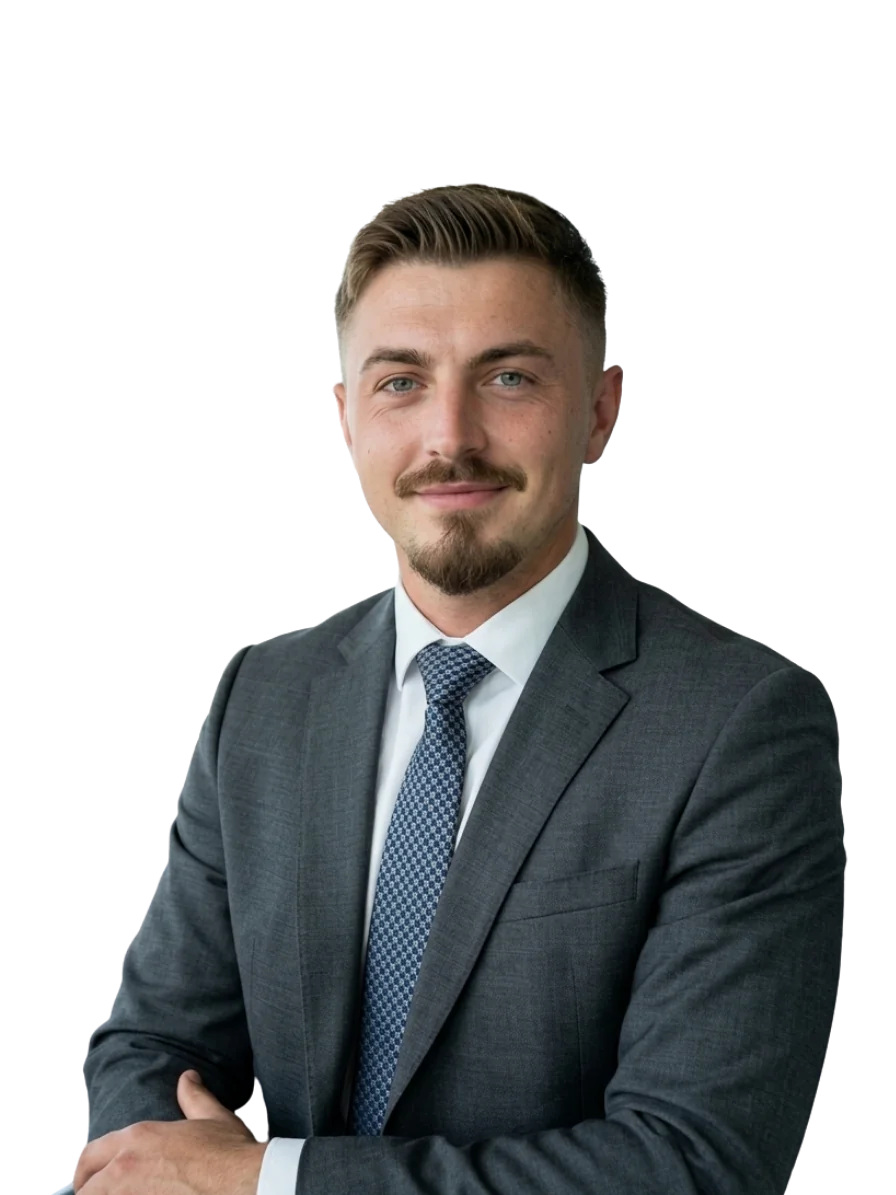
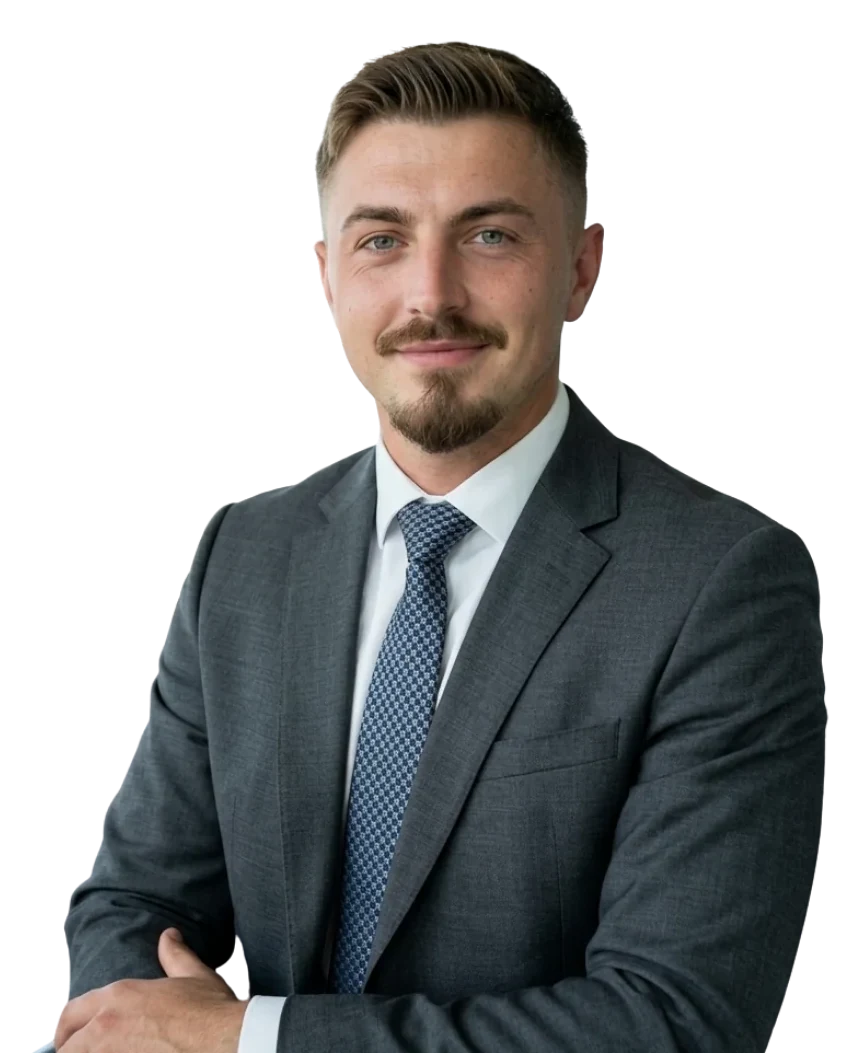
Baustellen-Seite: Fotos zugeschnitten (fuellen Rahmen), personenbezogener Kontakt
Portraits hatten viel transparenten Leerraum im Canvas (Ayham nur 52% Bildbreite
genutzt) - auf den tatsaechlichen Bildinhalt zugeschnitten, Fotos fuellen jetzt
den Rahmen sichtbar aus statt klein zu wirken.

Kontakt-Zeile wechselt jetzt mit der angezeigten Person: Ayhams E-Mail
(aalkh@kitech-software.de) bzw. Leons (leon.battel@kitech-software.de) statt
einer generischen info@-Adresse. LinkedIn-Feld vorbereitet, aber noch ohne Link -
echte Profil-URLs fehlen noch.

diff --git a/src/pages/UnderConstruction.tsx b/src/pages/UnderConstruction.tsx
@@ -1,7 +1,7 @@
 import { useEffect, useState } from "react";
 import { Link } from "react-router-dom";
 import { AnimatePresence, motion, useReducedMotion } from "framer-motion";
-import { Mail, Phone, ArrowRight } from "lucide-react";
+import { Mail, Phone, ArrowRight, Linkedin } from "lucide-react";
 import { SEOHead } from "@/components/seo/SEOHead";
 import { SignalField } from "@/components/canvas/SignalField";
 import { trackEvent } from "@/lib/plausible";
@@ -15,9 +15,13 @@ import leonPortrait from "@/assets/leon-portrait.webp";
 
 const CALENDLY_URL = "https://calendly.com/kitech-software/roi-analyse";
 
-const founders = [
-  { name: "Ayham Alkhalil", photo: ayhamPortrait },
-  { name: "Leon Battel", photo: leonPortrait },
+/**
+ * linkedin: bewusst noch leer (kein erfundener Link zu einem echten Profil) -
+ * wird ergaenzt, sobald die tatsaechlichen LinkedIn-URLs vorliegen.
+ */
+const founders: { name: string; email: string; linkedin: string | null; photo: string }[] = [
+  { name: "Ayham Alkhalil", email: "aalkh@kitech-software.de", linkedin: null, photo: ayhamPortrait },
+  { name: "Leon Battel", email: "leon.battel@kitech-software.de", linkedin: null, photo: leonPortrait },
 ];
 
 const ROTATION_INTERVAL_MS = 5000;
@@ -130,14 +134,30 @@ export default function UnderConstruction() {
               />
             </a>
 
-            <div className="mt-8 flex flex-col items-start gap-3 sm:flex-row sm:items-center sm:gap-6">
+            {/* Kontakt wechselt mit dem aktuell gezeigten Foto: die passende Person zur
+                passenden E-Mail-Adresse (statt einer generischen info@-Adresse). */}
+            <div className="mt-8 flex flex-col items-start gap-3 sm:flex-row sm:flex-wrap sm:items-center sm:gap-6">
               <a
-                href="mailto:info@kitech-software.de"
+                href={`mailto:${currentFounder.email}`}
                 className="inline-flex items-center gap-2 text-sm font-medium text-foreground transition-colors hover:text-primary sm:text-base"
               >
                 <Mail className="h-4 w-4 shrink-0 text-primary" aria-hidden="true" />
-                info@kitech-software.de
+                {currentFounder.email}
               </a>
+              {currentFounder.linkedin && (
+                <>
+                  <span className="hidden h-4 w-px bg-border sm:inline-block" aria-hidden="true" />
+                  <a
+                    href={currentFounder.linkedin}
+                    target="_blank"
+                    rel="noopener noreferrer"
+                    className="inline-flex items-center gap-2 text-sm font-medium text-foreground transition-colors hover:text-primary sm:text-base"
+                  >
+                    <Linkedin className="h-4 w-4 shrink-0 text-primary" aria-hidden="true" />
+                    LinkedIn
+                  </a>
+                </>
+              )}
               <span className="hidden h-4 w-px bg-border sm:inline-block" aria-hidden="true" />
               <a
                 href="tel:+4951189738590"
